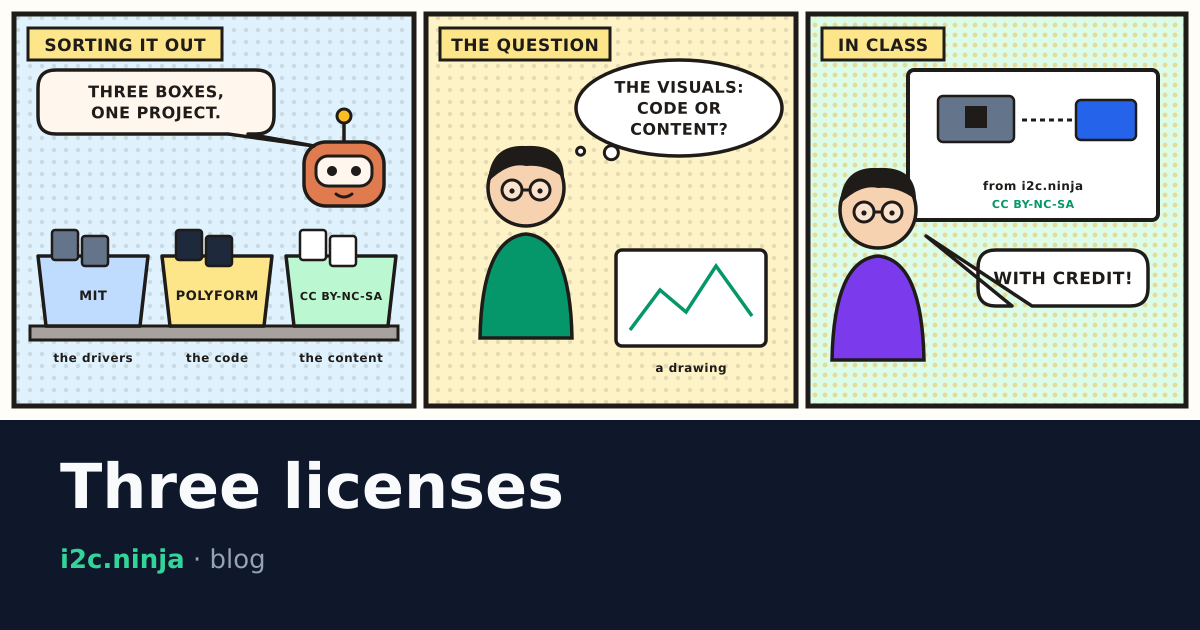
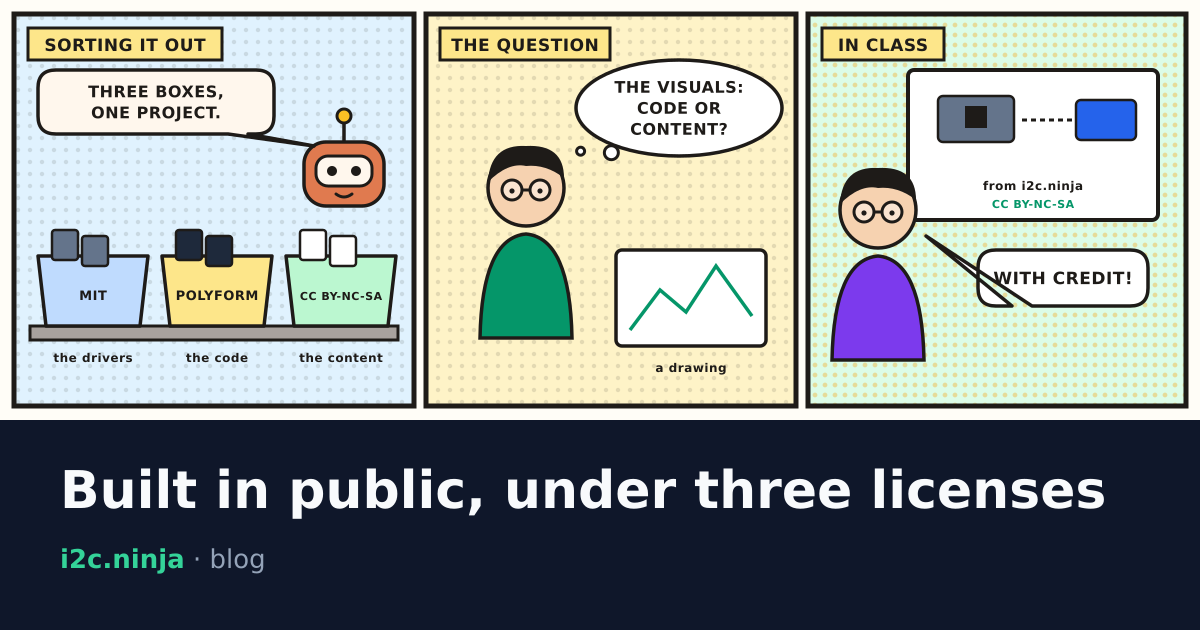
Blog: the license post framed by its purpose, Built in public, under three licenses (the opening, the ending, the title, its preview)

Changed region(s): [[0.0308, 0.7238, 0.925, 0.8143]]

diff --git a/src/lib/blog.js b/src/lib/blog.js
@@ -5,11 +5,11 @@
 export const POSTS = [
   {
     slug: 'three-licenses',
-    title: 'Three licenses',
+    title: 'Built in public, under three licenses',
     date: '2026-11-07',
     version: '1.3.5',
     banner: { src: '/blog/licenses-comic.svg', alt: 'A comic in three panels: the robot sorts the project into three boxes, MIT for the drivers, PolyForm for the code, CC BY-NC-SA for the content; the maker asks "The visuals: code or content?"; a teacher shows an i2c.ninja drawing on a classroom screen: "With credit!"' },
-    summary: 'MIT for the drivers, noncommercial for the site\'s code, CC BY-NC-SA for its content: how a few short questions split one project into three licenses, and what each means for a teacher, a maker or a company.',
+    summary: 'Everything here is out in the open; the licenses say what anyone may do with it. MIT for the drivers, noncommercial for the site\'s code, CC BY-NC-SA for its content, and what each means for a teacher, a maker or a company.',
     markdown: () => import('../blog/1.3.05-three-licenses.md?raw'),
   },
   {

diff --git a/src/blog/1.3.05-three-licenses.md b/src/blog/1.3.05-three-licenses.md
@@ -1,4 +1,6 @@
-This site now carries three licenses: one for its drivers, one for its code, one for its content. That sounds like paperwork. It came out of a few short questions, and each answer says something about what the project is for.
+This site is built in public. The source is on GitHub, every change is there as it happens, and this blog tells the stories behind them: the sensors, the ideas, the questions. Building in public means anyone can see all of it. The licenses say what they may do with what they see.
+
+There are three now: one for the drivers, one for the site's code, one for its content. They came out of a few short questions, and each answer says something about building in the open.
 
 ## Day one: MIT for everything
 
@@ -47,4 +49,4 @@ So the content now has its own license: [CC BY-NC-SA 4.0](https://creativecommon
 | a maker building a product | use atiic's drivers freely (MIT); for the site's code or content, ask |
 | a company | write to support@meshmass.com for a commercial license |
 
-Three licenses, one idea: the drivers go anywhere, learning stays free, and building a business on someone else's work starts with a conversation.
+Three licenses, one purpose: to build in public and keep it fair. Everything stays open to look at and learn from; the drivers go anywhere; teachers can take the drawings to class; and a business built on the work starts with a conversation.
